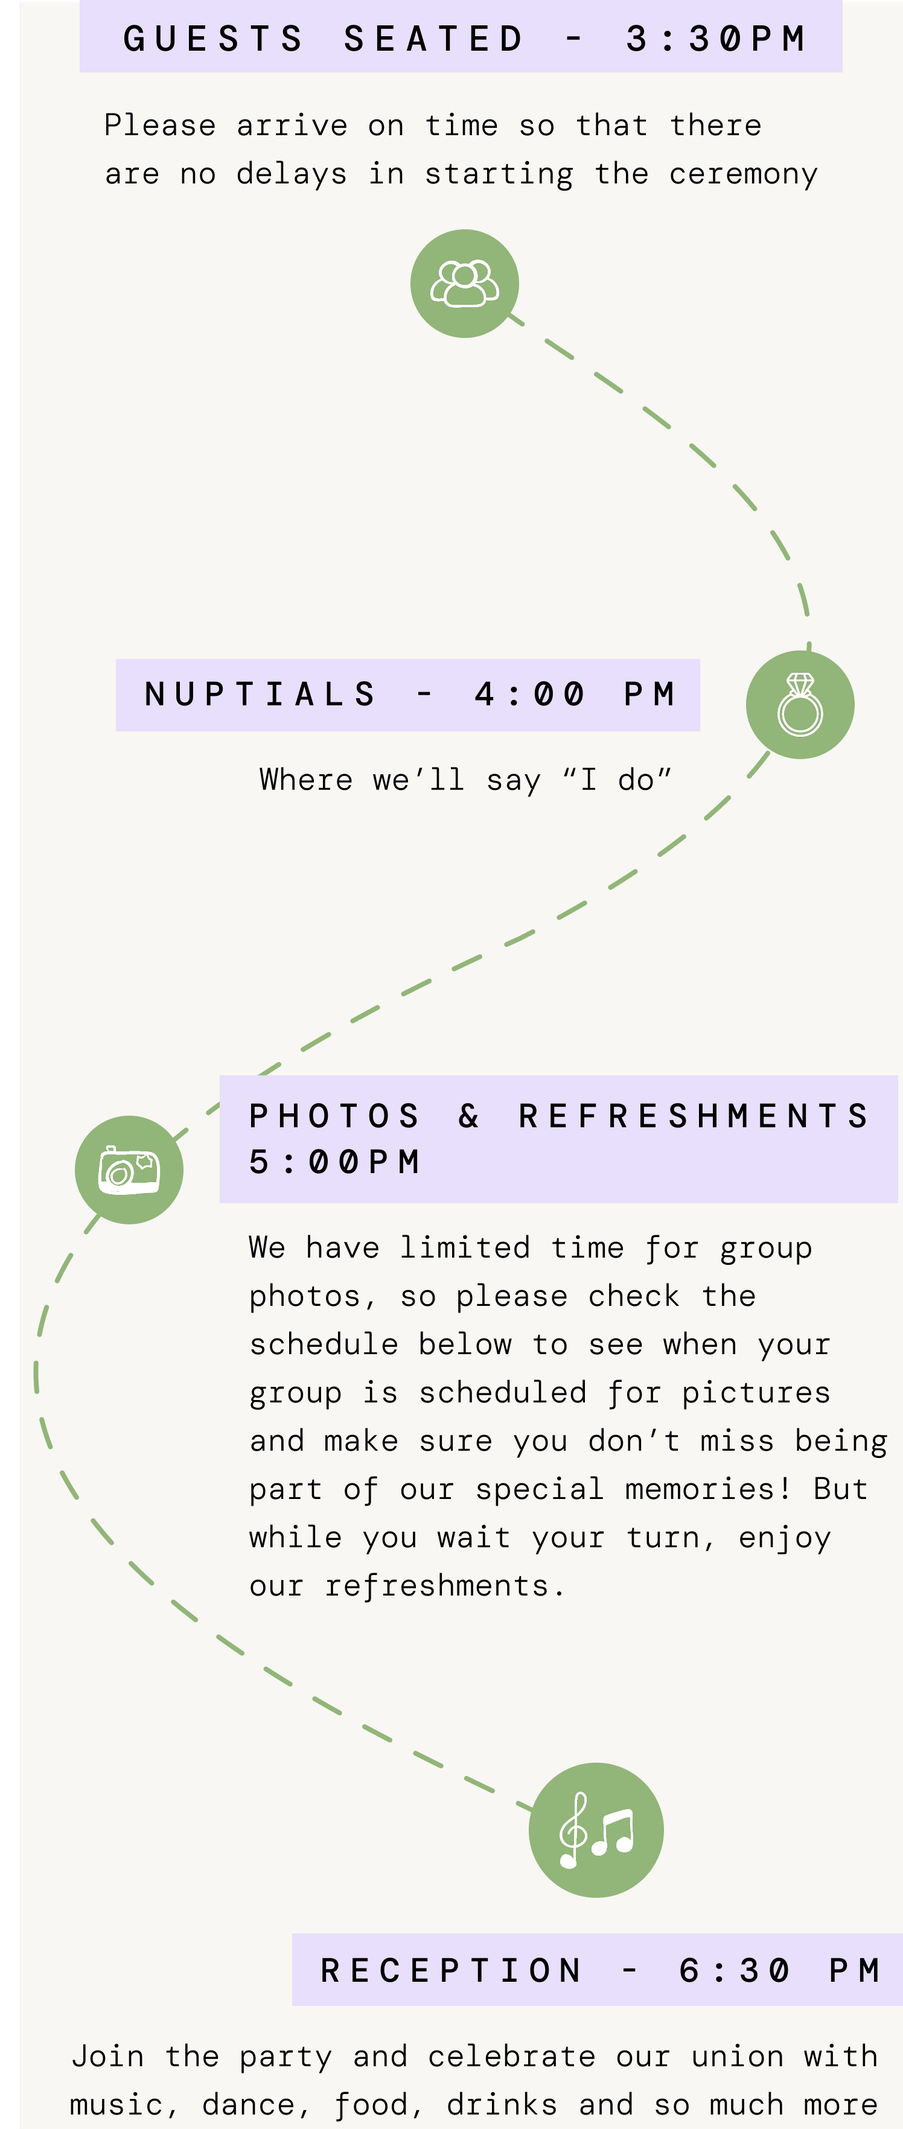
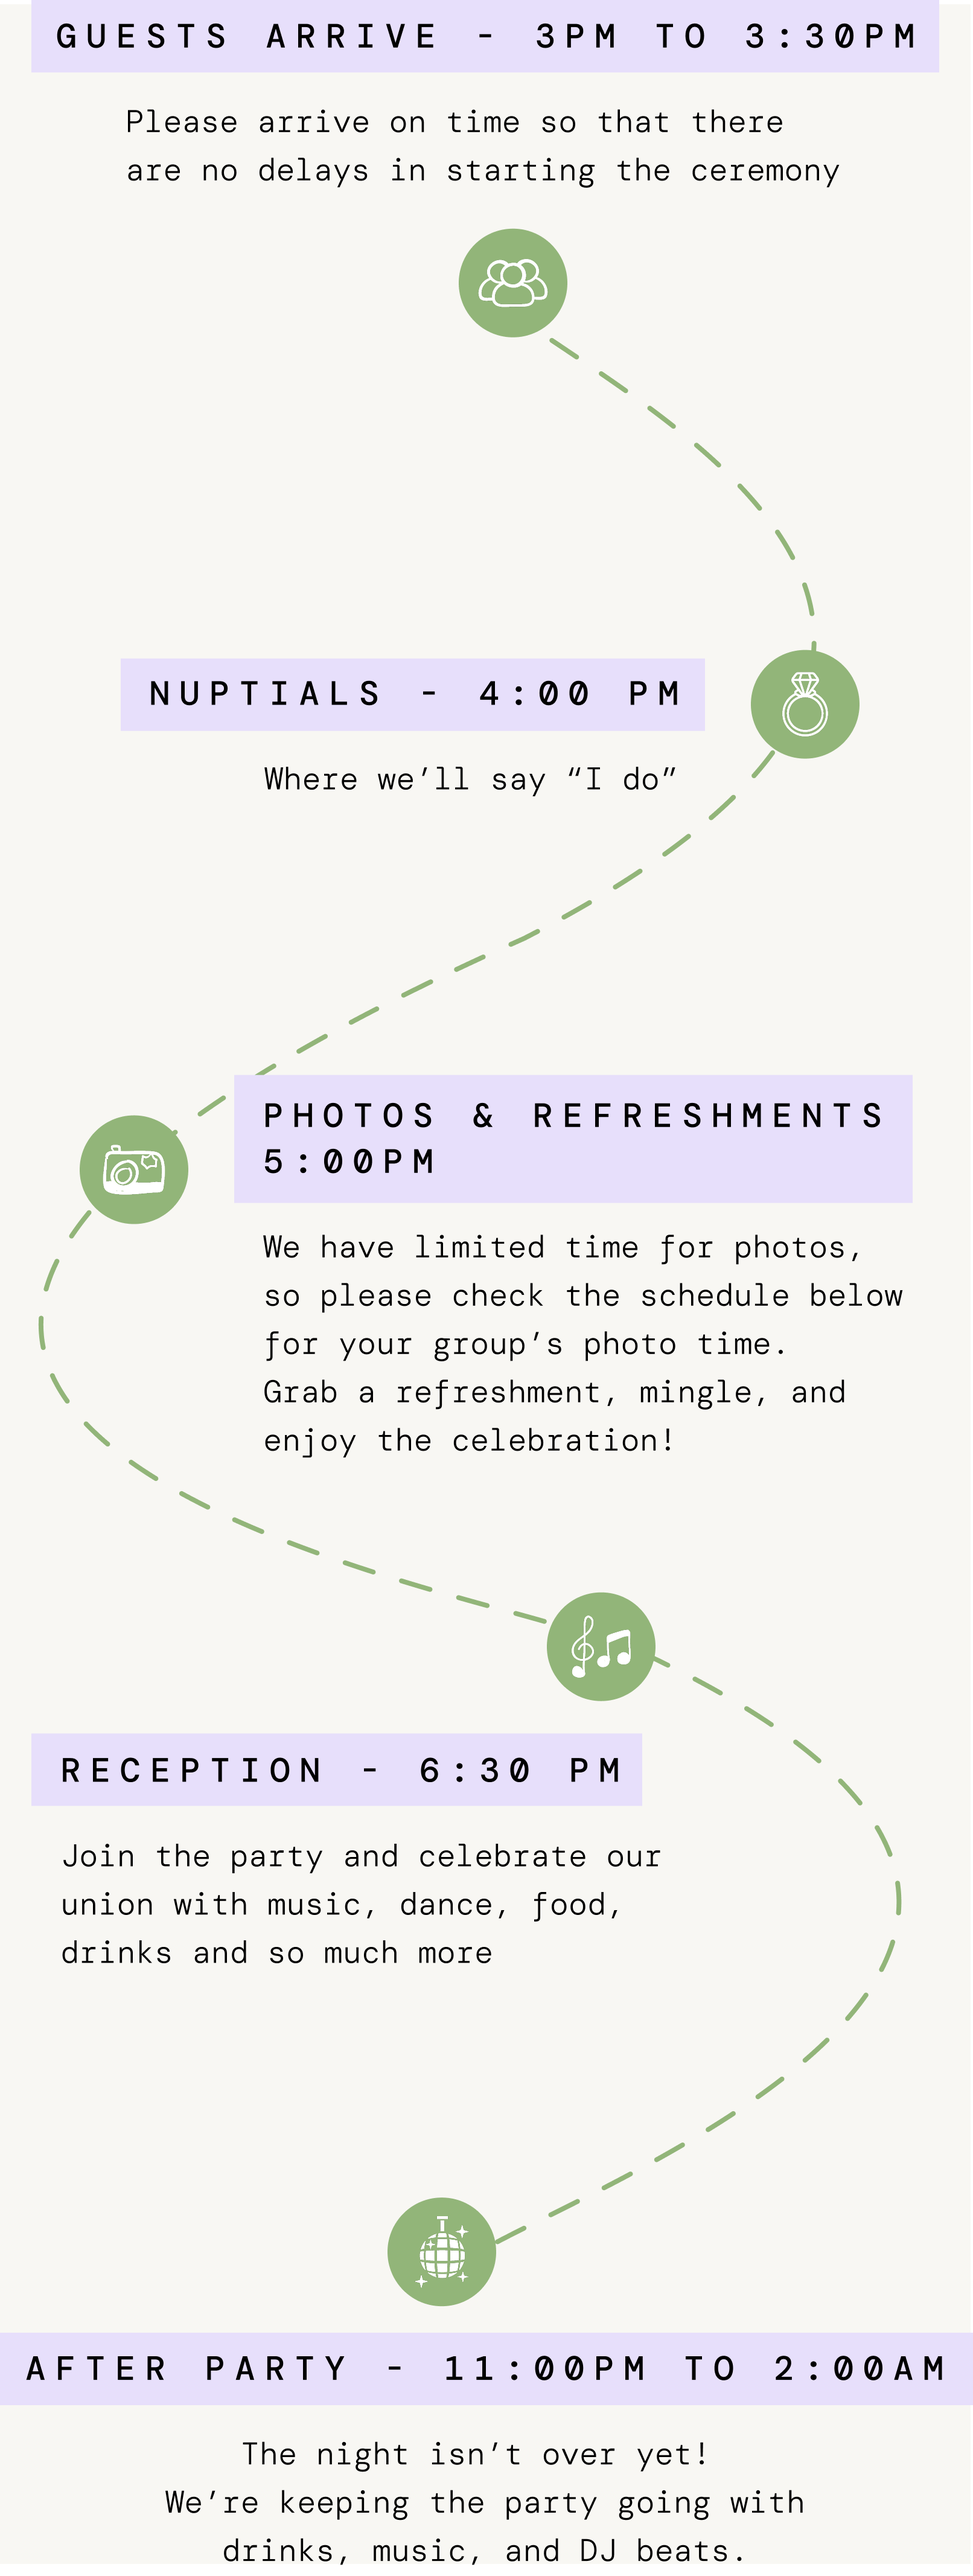
pearls chanegs

diff --git a/index.html b/index.html
@@ -273,11 +273,11 @@
           As this will be our only time for group photos with us, please join us during your scheduled time.
         </p>
         <div class="info-card-box info-card-box--photos">
-          COUPLE &ndash; 5:00PM TO 5:15PM
+          COUPLE &ndash; 5:00PM TO 5:30PM
           <br />
-          COUPLE + FAMILY &ndash; 5:15PM TO 5:45PM
+          COUPLE + FAMILY &ndash; 5:30PM TO 6:00PM
           <br />
-          COUPLE + FRIENDS &amp; GUESTS &ndash; 5:45PM TO 6:15PM
+          COUPLE + FRIENDS &amp; GUESTS &ndash; 6:00PM TO 6:30PM
         </div>
         <p class="info-card-intro">
           Please note: We may not be able to accommodate guests who miss their scheduled photo time.
@@ -383,6 +383,9 @@
         <h3 class="rsvp-form-title">
           PLEASE RSVP BELOW
         </h3>
+        <i class="rsvp-deadline">
+        Last Date to RSVP &mdash; December 1, 2026
+        </i>
         <div class="rsvp-name-row">
           <input name="firstName" placeholder="First Name" required="" type="text" />
           <input name="lastName" placeholder="Last Name" required="" type="text" />
@@ -463,12 +466,6 @@
         <button class="rsvp-submit" type="submit">
           RSVP
         </button>
-        <p class="rsvp-deadline">
-          LAST DAY TO RSVP
-          <span class="rsvp-deadline-date">
-            DECEMBER 1, 2026
-          </span>
-        </p>
       </form>
     </div>
   </section>
@@ -487,7 +484,7 @@
       <div class="faq-item">
         <button class="faq-question" type="button">
           <span>
-            WHAT TIME SHOULD I ARRIVE?
+            WHEN IS THE LAST DATE TO RSVP?
           </span>
           <span class="faq-icon">
             &minus;
@@ -495,8 +492,22 @@
         </button>
         <div class="faq-answer is-open">
           <p>
-            Please arrive 30 minutes before the ceremony begins to allow time
-            for parking and seating.
+            Last date to RSVP is December 1, 2026 
+          </p>
+        </div>
+      </div>
+      <div class="faq-item">
+        <button class="faq-question" type="button">
+          <span>
+            WHAT TIME SHOULD I ARRIVE? 
+          </span>
+          <span class="faq-icon">
+            +
+          </span>
+        </button>
+        <div class="faq-answer">
+          <p>
+            Please arrive by 3:00pm - 3:30pm to allow time for parking and seating.
           </p>
         </div>
       </div>
@@ -565,20 +576,6 @@
           </ul>
         </div>
       </div>
-      <div class="faq-item">
-        <button class="faq-question" type="button">
-          <span>
-            WILL THERE BE VEGETARIAN FOOD FOR THE RECEPTION DINNER?
-          </span>
-          <span class="faq-icon">
-            +
-          </span>
-        </button>
-        <div class="faq-answer">
-          <p>
-            Yes, there will be options for both vegetarian and non-vegetarian.
-          </p>
-        </div>
       </div>
     </div>
   </section>
@@ -609,14 +606,14 @@
           PEARLANDJOHANN@GMAIL.COM
         </span>
       </a>
-      <a class="contact-item" href="tel:+971501071127">
+      <div class="contact-item">
         <span class="contact-icon">
           <img alt="" src="assets/icons/phone.png" />
         </span>
         <span>
-          +971 50 107 1127 <br> +971 56 871 8243
+          +971 50 107 1127 - JOHANN<br>+971 56 871 8243 - STEVE. 
        </span>
-      </a>
+      </div>
     </div>
     <div class="contact-footer">
       <span>

diff --git a/css/style.css b/css/style.css
@@ -941,7 +941,7 @@ body.menu-open {
   font-size: 1.1rem;
   font-weight: 500;
   letter-spacing: 0.3em;
-  margin-bottom: 2.5rem;
+  margin-bottom: 1rem;
 }
 
 .rsvp-name-row {
@@ -1026,6 +1026,7 @@ body.menu-open {
   color: #ffffff;
   font-family: var(--font-mono);
   font-size: var(--fs-small);
+  font-weight: 500;
   letter-spacing: 0.4em;
   cursor: pointer;
 }
@@ -1036,10 +1037,14 @@ body.menu-open {
 
 .rsvp-deadline {
   margin-top: 1.2rem;
-  text-align: center;
+  text-align: left;
   font-family: var(--font-mono);
   font-size: var(--fs-small);
-  letter-spacing: 0.25em;
+  letter-spacing: 0.20em;
+  display: flex;
+  max-width: 100%;
+  font-weight: 500;
+  margin-bottom: 2.5rem;
 }
 
 .rsvp-deadline-date {
@@ -1172,10 +1177,12 @@ body.menu-open {
 
   .rsvp-deadline {
     margin-top: 1.2rem;
+    max-width: 100%;
     text-align: center;
+    justify-content: center;
     font-family: var(--font-mono);
     font-size: var(--fs-micro);
-    letter-spacing: 0.25em;
+    letter-spacing: 0.20em;
   }
 
 }
@@ -1448,12 +1455,11 @@ body.menu-open {
   align-items: center;
   gap: 2rem;
   font-family: var(--font-mono);
-  letter-spacing: 0.1em;
+  letter-spacing: 0.2em;
   font-family: DM Mono;
   font-weight: 500;
   font-size: 14px;
   line-height: 155%;
-  letter-spacing: 0px;
   text-align: right;
 }
 
@@ -1571,7 +1577,7 @@ body.menu-open {
 
   .contact-item {
     font-size: 14px;
-    align-items: center;
+    align-items:center;
   }
 
   .contact-icon {
@@ -1584,8 +1590,8 @@ body.menu-open {
     gap: 0.5rem 1rem;
     font-size: 11px;
     line-height: 1.8;
+    letter-spacing: 0px;
   }
-
 }
 
 .venue-section {
